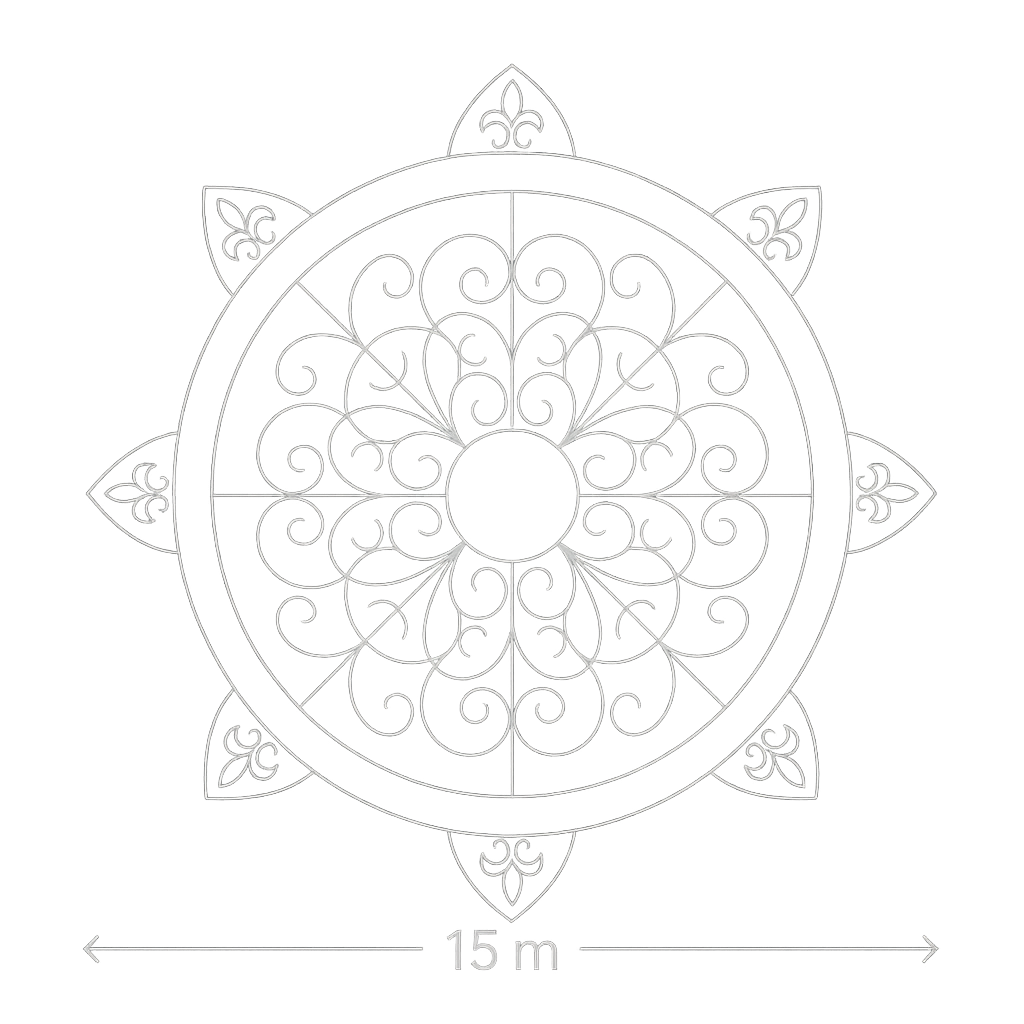
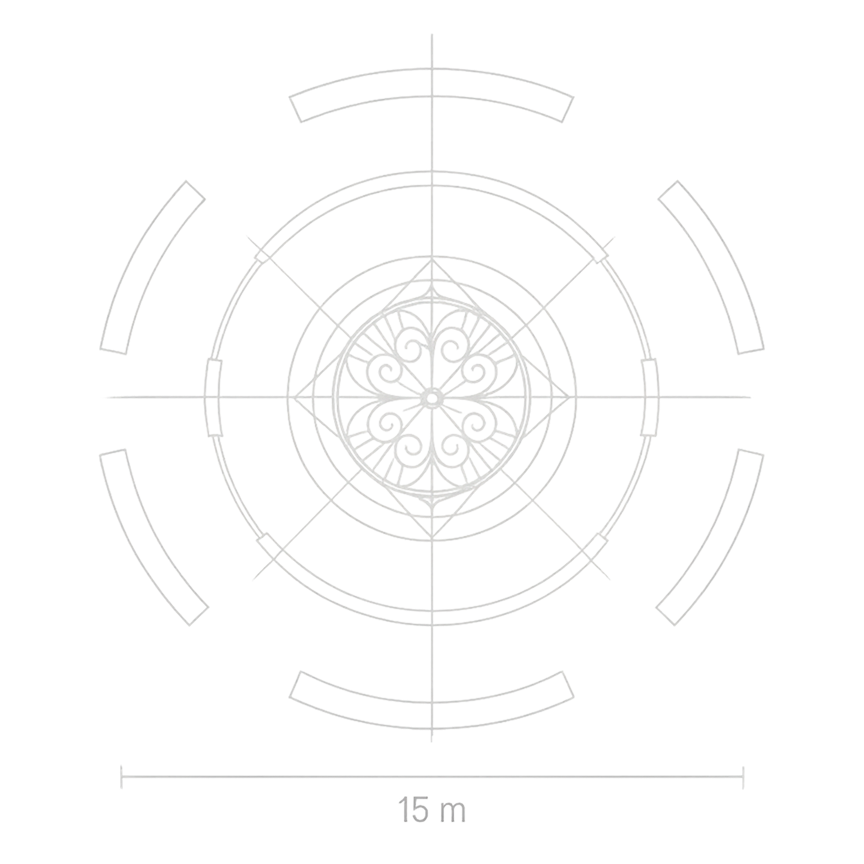
some fixes

diff --git a/app/static/css/pages/home/home_contacts.css b/app/static/css/pages/home/home_contacts.css
@@ -206,17 +206,38 @@
         backdrop-filter: blur(10px);
     }
 
+    .ct-form {
+        display: flex;
+        flex-direction: column;
+        justify-content: center;
+        align-items: center;
+    }
+
+    .ct-form p {}
+
     .cw-contacts__wrap {
         grid-template-columns: 1fr;
     }
 
     .ct-grid-last {
         grid-template-columns: 1fr;
+        width: -webkit-fill-available;
+    }
+
+    .ct-title {
+        font-size: var(--font-h1);
+        border-bottom: unset
+    }
+
+    .ct-sub {
+        display: none;
+        margin: 0 0 26px;
     }
 
     .ct-btn {
         grid-column: 1 / -1;
         justify-self: stretch;
         text-align: center;
+        width: unset !important;
     }
 }

diff --git a/app/static/css/pages/home/home_news.css b/app/static/css/pages/home/home_news.css
@@ -402,7 +402,7 @@
         align-items: center;
         justify-content: space-between;
         width: 100%;
-        gap: unset;
+        gap: 50px;
     }
 
     .news-side {
@@ -441,7 +441,7 @@
     }
 
     .news-main__aside {
-        width: 70%;
+        /* width: 70%; */
     }
 
     .news-date {
@@ -473,6 +473,13 @@
 
     .cw-news.go-prev .news-side--left {
         transform: translateX(0px) scale(1.10);
+    }
+
+
+    .news-modal__dialog {
+        height: 100%;
+        width: 100%;
+        padding: 20px;
     }
 
 }

diff --git a/app/static/css/pages/home/home_sequence.css b/app/static/css/pages/home/home_sequence.css
@@ -194,7 +194,7 @@
 
     .seq-copy {
         left: 16px;
-        top: 400px;
+        top: 100px;
         max-width: 80vw;
     }
 
@@ -218,10 +218,12 @@
     }
 
     .seq-desc {
+        display: none;
         margin-left: 20px;
     }
 
     .seq-desc2 {
+        display: none;
         margin-right: unset;
     }
 

diff --git a/app/static/css/layout/header.css b/app/static/css/layout/header.css
@@ -1076,7 +1076,7 @@ html.rq-lock body {
         transition: none !important;
     }
 
-    .btn-link {
+    .ls-header__inner .btn-link {
         display: none !important;
     }
 

diff --git a/app/static/css/pages/home/home_hero.css b/app/static/css/pages/home/home_hero.css
@@ -327,7 +327,7 @@
 
     .txt3 {
         font-size: 36px;
-        right: 20;
+        right: 20px;
         text-align: right;
     }
 
